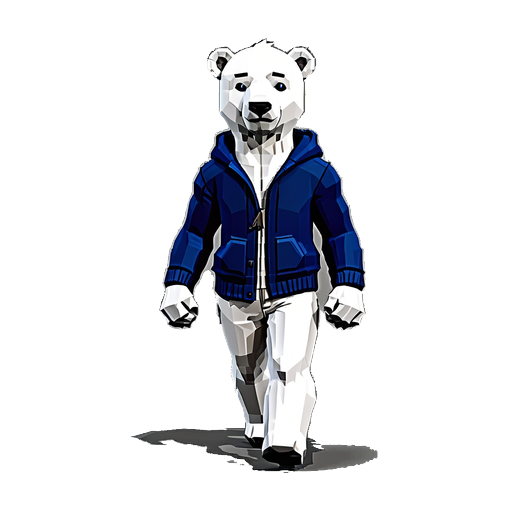
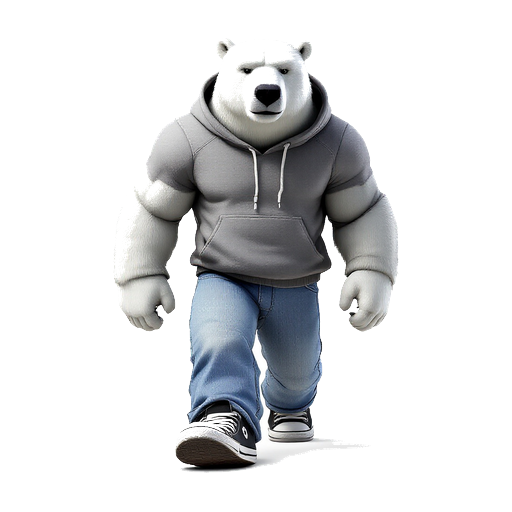
Add BFL FLUX API support and first smooth-3D front reference
- scripts/comfy_generate.py: BFL FLUX submit/poll/download integration
- public/bear-review.html: review page for remote asset review
- Latest front reference: smooth 3D polar bear with grey hoodie, blue jeans, Converse-style sneakers

Changed region(s): [[0.2188, 0.0625, 0.7812, 0.9375]]

diff --git a/scripts/comfy_generate.py b/scripts/comfy_generate.py
@@ -13,6 +13,7 @@ Usage:
 from __future__ import annotations
 
 import argparse
+import os
 import sys
 import time
 from collections import deque
@@ -27,6 +28,8 @@ from PIL import Image
 ROOT = Path(__file__).resolve().parents[1]
 OUT = ROOT / "public/assets"
 PREVIEW = OUT / "generated"
+
+BFL_BASE_URL = "https://api.bfl.ai"
 
 
 VOXEL_LORA = "VoxelXL_v1.safetensors"
@@ -319,6 +322,75 @@ def upload_image(server: str, path: Path) -> str:
     return data["name"]
 
 
+# ---------------------------------------------------------------------------
+# Black Forest Labs FLUX API helpers
+# ---------------------------------------------------------------------------
+
+def bfl_submit(api_key: str, prompt: str, width: int, height: int, seed: int,
+               model: str = "flux-pro-1.1", **extra: Any) -> tuple[str, str]:
+    """Submit a generation request to the BFL API and return (request_id, polling_url)."""
+    url = urljoin(BFL_BASE_URL, f"/v1/{model}")
+    payload: dict[str, Any] = {
+        "prompt": prompt,
+        "width": width,
+        "height": height,
+        "seed": seed,
+    }
+    payload.update(extra)
+    resp = requests.post(
+        url,
+        headers={"x-key": api_key, "Content-Type": "application/json"},
+        json=payload,
+        timeout=30,
+    )
+    resp.raise_for_status()
+    data = resp.json()
+    request_id = data.get("id") or data.get("request_id")
+    polling_url = data.get("polling_url")
+    if not request_id:
+        raise RuntimeError(f"BFL submit returned no request id: {data}")
+    print(f"  BFL {model} submitted: {request_id}")
+    return str(request_id), polling_url
+
+
+def bfl_poll_result(api_key: str, request_id: str,
+                    polling_url: str | None = None,
+                    timeout: float = 300.0) -> dict[str, Any]:
+    """Poll the BFL result endpoint until the image is ready."""
+    if polling_url is None:
+        polling_url = urljoin(BFL_BASE_URL, "/v1/get_result")
+    start = time.time()
+    while time.time() - start < timeout:
+        resp = requests.get(
+            polling_url,
+            headers={"x-key": api_key},
+            params={"id": request_id},
+            timeout=30,
+        )
+        resp.raise_for_status()
+        data = resp.json()
+        status = data.get("status", "")
+        if status == "Ready":
+            return data
+        if status in ("Failed", "Error"):
+            raise RuntimeError(f"BFL generation failed: {data}")
+        print(f"  BFL status: {status}, waiting...")
+        time.sleep(2.0)
+    raise RuntimeError(f"BFL generation did not complete within {timeout}s")
+
+
+def bfl_download_image(result: dict[str, Any], dest: Path) -> None:
+    """Download the generated image from the BFL result to dest."""
+    sample_url = result.get("result", {}).get("sample")
+    if not sample_url:
+        raise RuntimeError(f"BFL result has no sample URL: {result}")
+    resp = requests.get(sample_url, timeout=120)
+    resp.raise_for_status()
+    dest.parent.mkdir(parents=True, exist_ok=True)
+    dest.write_bytes(resp.content)
+    print(f"  downloaded {dest}")
+
+
 def isolate_largest_sprite(img: Image.Image, target_size: int, raw_path: Path | None = None) -> Image.Image:
     """Crop to the largest foreground region and make the background transparent.
 
@@ -428,9 +500,19 @@ def generate_single(server: str, key: str, seed: int, use_img2img: bool = False,
     return spec["out"]
 
 
-def make_bear_reference(server: str, seed: int, size: int = 512,
-                        direction: str = "down") -> Path:
-    """Generate a single consistent adult polar bear reference on white for a given direction."""
+def make_bear_reference(server: str | None, seed: int, size: int = 512,
+                        direction: str = "down",
+                        style_ref: Path | None = None,
+                        use_sd15: bool = False,
+                        bfl_api_key: str | None = None,
+                        bfl_model: str = "flux-pro-1.1") -> Path:
+    """Generate a single consistent adult polar bear reference on white for a given direction.
+
+    If bfl_api_key is provided, the Black Forest Labs FLUX API is used instead of ComfyUI.
+    If style_ref is provided, it is uploaded to ComfyUI and used as the img2img init image so the
+    generated frame inherits the reference's colors, outfit, proportions, and style.
+    If use_sd15 is True, the SD 1.5 checkpoint is used instead of CartoonXL SDXL.
+    """
     direction_prompts = {
         "up": "seen from behind, back view, walking away from camera, facing away",
         "right": "side view facing right, walking to the right, profile view",
@@ -438,27 +520,56 @@ def make_bear_reference(server: str, seed: int, size: int = 512,
         "left": "side view facing left, walking to the left, profile view",
     }
     prompt = (
-        "3D rendered anthropomorphic adult male polar bear character, voxel style, low poly, Fez-like, "
-        "realistic adult human proportions, seven heads tall, tall slender man-like body, "
-        "very long muscular humanoid legs, narrow waist, very broad shoulders, "
-        "small head relative to body, elongated mature snout, serious adult expression, "
+        "anthropomorphic adult male polar bear character, Minecraft voxel style, blocky, "
+        "muscular humanoid build, broad muscular shoulders, thick arms, strong stocky body, "
+        "wearing a solid grey hoodie with drawstrings and plain blue denim jeans with no rips, "
+        "white fur, black and white high-top sneakers like Converse, no gloves, bare paws, no headband, "
         f"{direction_prompts[direction]}, "
-        "wearing a solid blue hoodie with drawstrings and dark blue denim jeans, white fur, "
-        "no gloves, no headband, full length dark pants, "
-        "soft directional studio lighting, ambient occlusion, subtle cast shadow, "
         "pure white background, isolated character, centered, "
         "no text, no watermark, no border"
     )
-    out = PREVIEW / f"characters/bear-reference-{direction}.png"
     negative = (
         f"{NEGATIVE_SPRITE}, {NEGATIVE_OBJECT}, baby, cub, child, toddler, chibi, kawaii, "
         "cute, big eyes, large eyes, round face, big head, short legs, stubby legs, "
-        "3 heads tall, 4 heads tall, belly, overweight, chubby, "
-        "white pants, light pants, grey pants, bare legs, shorts, skirt, "
+        "belly, overweight, chubby, gloves, mittens, wrist cuffs, "
+        "barefoot, bare paws, no shoes, sandals, boots, high heels, "
+        "white hoodie, black hoodie, blue hoodie, pink hoodie, red hoodie, "
+        "ripped jeans, torn jeans, distressed jeans, shorts, skirt, bare chest, "
         "cartoon, anime, mascot, plushie, toy, figurine, Funko, collectable, "
-        "flat shading, 2d illustration, white hoodie, grey background, textured background, photograph"
+        "flat shading, 2d illustration, grey background, gradient background, textured background, photograph"
     )
-    workflow = base_workflow(1024, 1024, prompt, negative, seed, cfg=9.0, steps=40)
+    out = PREVIEW / f"characters/bear-reference-{direction}.png"
+
+    if bfl_api_key:
+        # BFL supports square generation well; use 1024x1024 for detail.
+        request_id, polling_url = bfl_submit(bfl_api_key, prompt, 1024, 1024, seed, model=bfl_model)
+        result = bfl_poll_result(bfl_api_key, request_id, polling_url=polling_url)
+        bfl_download_image(result, out)
+        with Image.open(out).convert("RGBA") as img:
+            isolate_largest_sprite(img, size, raw_path=out.with_suffix(".raw.png")).save(out)
+        return out
+
+    if server is None:
+        raise ValueError("No ComfyUI server provided and no BFL API key set")
+
+    if use_sd15:
+        checkpoint = "v1-5-pruned-emaonly.safetensors"
+        width, height, gen_steps, gen_cfg = 512, 512, 35, 7.5
+    else:
+        checkpoint = "cartoonxl_v10.safetensors"
+        width, height, gen_steps, gen_cfg = 1024, 1024, 40, 9.0
+
+    if style_ref is not None and style_ref.exists():
+        uploaded_name = upload_image(server, style_ref)
+        # Low denoise preserves the reference style/outfit; prompt steers direction.
+        workflow = img2img_workflow(
+            width, height, prompt, negative, seed, Path(uploaded_name),
+            denoise=0.35, checkpoint=checkpoint, steps=gen_steps, cfg=gen_cfg, lora_name=None,
+        )
+    else:
+        workflow = base_workflow(width, height, prompt, negative, seed,
+                                 checkpoint=checkpoint, steps=gen_steps, cfg=gen_cfg, lora_name=None)
+
     prompt_id = submit(server, workflow)
     print(f"[bear-reference-{direction}] queued {prompt_id}")
     entry = poll_until_done(server, prompt_id)
@@ -470,7 +581,7 @@ def make_bear_reference(server: str, seed: int, size: int = 512,
 
 
 def make_bear_direction(server: str, direction: str, reference: Path, seed: int,
-                        pose: str = "") -> Path:
+                        pose: str = "", use_sd15: bool = False) -> Path:
     """Generate one direction frame using img2img from the reference for consistency."""
     directions = {
         "up": "seen from behind, walking away, back view, facing away, upright humanoid posture",
@@ -479,28 +590,38 @@ def make_bear_direction(server: str, direction: str, reference: Path, seed: int,
         "down": "front view walking toward viewer, facing camera, upright humanoid posture",
     }
     prompt = (
-        "3D rendered anthropomorphic adult male polar bear character, same voxel design and outfit as reference, "
-        "realistic adult human proportions, seven heads tall, tall slender man-like body, "
-        "very long muscular humanoid legs, narrow waist, very broad shoulders, "
-        "small head relative to body, elongated mature snout, serious adult expression, "
-        "wearing a solid blue hoodie with drawstrings and dark blue denim jeans, white fur, "
+        "anthropomorphic adult male polar bear character, same Minecraft voxel design and outfit as reference, "
+        "muscular humanoid build, broad muscular shoulders, thick arms, strong stocky body, "
+        "wearing a solid grey hoodie with drawstrings and plain blue denim jeans with no rips, "
+        "white fur, black and white high-top sneakers like Converse, no gloves, bare paws, no headband, "
         f"{directions[direction]}, {pose}, "
-        "soft directional studio lighting, ambient occlusion, subtle cast shadow, "
         "pure white background, isolated character, centered, "
         "no text, no watermark, no border"
     )
     negative = (
         f"{NEGATIVE_SPRITE}, {NEGATIVE_OBJECT}, baby, cub, child, toddler, chibi, kawaii, "
         "cute, big eyes, large eyes, round face, big head, short legs, stubby legs, "
-        "3 heads tall, 4 heads tall, belly, overweight, chubby, "
+        "belly, overweight, chubby, gloves, mittens, wrist cuffs, "
+        "barefoot, bare paws, no shoes, sandals, boots, high heels, "
+        "white hoodie, black hoodie, blue hoodie, pink hoodie, red hoodie, "
+        "ripped jeans, torn jeans, distressed jeans, shorts, skirt, bare chest, "
         "cartoon, anime, mascot, plushie, toy, figurine, Funko, collectable, "
-        "flat shading, 2d illustration, white hoodie, grey background, textured background, photograph"
+        "flat shading, 2d illustration, grey background, gradient background, textured background, photograph"
     )
     out = PREVIEW / f"characters/bear-{direction}-{seed}.png"
-    # Upload the reference to ComfyUI's input folder so img2img can load it.
+
     uploaded_name = upload_image(server, reference)
-    # Use Voxel LoRA for consistent style; moderate denoise keeps reference while allowing pose change.
-    workflow = img2img_workflow(1024, 1024, prompt, negative, seed, Path(uploaded_name), denoise=0.55)
+
+    if use_sd15:
+        # SD 1.5 works at 512x512 with the uploaded reference, low denoise keeps the style/outfit.
+        workflow = img2img_workflow(
+            512, 512, prompt, negative, seed, Path(uploaded_name),
+            denoise=0.45, checkpoint="v1-5-pruned-emaonly.safetensors",
+            steps=30, cfg=7.5, lora_name=None,
+        )
+    else:
+        workflow = img2img_workflow(1024, 1024, prompt, negative, seed, Path(uploaded_name), denoise=0.55)
+
     prompt_id = submit(server, workflow)
     print(f"[bear-{direction}-{seed}] queued {prompt_id}")
     entry = poll_until_done(server, prompt_id)
@@ -554,11 +675,21 @@ def assemble_bear_sheet(directions: dict[str, list[Path]]) -> Path:
     return out
 
 
-def make_bear_reference_preview(server: str, seed: int) -> Path:
+def make_bear_reference_preview(server: str, seed: int,
+                                style_ref: Path | None = None,
+                                use_sd15: bool = False) -> Path:
     """Generate a front-facing reference and build a preview sheet that repeats it."""
-    ref = make_bear_reference(server, seed)
+    ref = make_bear_reference(server, seed, direction="down", style_ref=style_ref, use_sd15=use_sd15)
+    return _make_preview_sheet_from_ref(ref)
 
-    # Build a 128x128 cell from the 512x512 reference.
+
+def make_bear_reference_preview_with_ref(ref: Path) -> Path:
+    """Build a preview sheet from an already-generated reference file."""
+    return _make_preview_sheet_from_ref(ref)
+
+
+def _make_preview_sheet_from_ref(ref: Path) -> Path:
+    """Tile a 512x512 reference into a 4x8 preview sheet."""
     with Image.open(ref).convert("RGBA") as img:
         cell = 128
         scale = cell / max(img.size)
@@ -656,6 +787,11 @@ def main() -> None:
     parser.add_argument("--promote", action="store_true", help="Copy previews to active asset folders")
     parser.add_argument("--no-lora", action="store_true", help="Use CartoonXL without the Voxel XL LoRA (not voxel style)")
     parser.add_argument("--lora-weight", type=float, default=None, help="Override Voxel XL LoRA strength (default 0.6)")
+    parser.add_argument("--sd15", action="store_true", help="Use the SD 1.5 checkpoint instead of CartoonXL SDXL for bear generation")
+    parser.add_argument("--style-ref", type=Path, default=None, help="Image to use as an img2img style/outfit reference for bear generation")
+    parser.add_argument("--bfl", action="store_true", help="Use the Black Forest Labs FLUX API instead of ComfyUI")
+    parser.add_argument("--bfl-model", default="flux-pro-1.1", help="BFL model to use (default: flux-pro-1.1)")
+    parser.add_argument("--bfl-api-key", default=None, help="BFL API key (defaults to BFL_API_KEY env var)")
     args = parser.parse_args()
 
     if args.no_lora:
@@ -669,40 +805,53 @@ def main() -> None:
         promote()
         return
 
-    if not args.no_lora:
-        require_lora(args.server)
+    bfl_api_key = args.bfl_api_key or os.environ.get("BFL_API_KEY")
 
-    jobs: list[str] = []
-    if args.preview_all:
-        jobs.extend(ASSETS.keys())
-    elif args.preview:
-        jobs.append(args.preview)
+    if not args.bfl:
+        if not args.no_lora:
+            require_lora(args.server)
 
-    for key in jobs:
-        try:
-            generate_single(args.server, key, args.seed)
-        except Exception as exc:
-            print(f"[{key}] failed: {exc}", file=sys.stderr)
-            sys.exit(1)
+        jobs: list[str] = []
+        if args.preview_all:
+            jobs.extend(ASSETS.keys())
+        elif args.preview:
+            jobs.append(args.preview)
+
+        for key in jobs:
+            try:
+                generate_single(args.server, key, args.seed)
+            except Exception as exc:
+                print(f"[{key}] failed: {exc}", file=sys.stderr)
+                sys.exit(1)
 
     if args.preview_bear:
+        if args.bfl and not bfl_api_key:
+            print("ERROR: --bfl requires --bfl-api-key or BFL_API_KEY env var", file=sys.stderr)
+            sys.exit(1)
         try:
+            server = None if args.bfl else args.server
             # Generate a direction-specific reference for each cardinal direction so the
             # silhouettes actually read as up/right/down/left in the final sheet.
             refs: dict[str, Path] = {}
             for d in ["up", "right", "down", "left"]:
-                refs[d] = make_bear_reference(args.server, args.seed, direction=d)
+                refs[d] = make_bear_reference(
+                    server, args.seed, direction=d,
+                    style_ref=args.style_ref, use_sd15=args.sd15,
+                    bfl_api_key=bfl_api_key, bfl_model=args.bfl_model,
+                )
 
             directions: dict[str, list[Path]] = {}
             for d in ["up", "right", "down", "left"]:
                 # Two alternating walk poses per direction, guided by the matching direction reference.
                 pose_a = make_bear_direction(
                     args.server, d, refs[d], args.seed + hash(d) % 100000,
-                    pose="left leg forward, right leg back, left arm back, right arm forward"
+                    pose="left leg forward, right leg back, left arm back, right arm forward",
+                    use_sd15=args.sd15,
                 )
                 pose_b = make_bear_direction(
                     args.server, d, refs[d], args.seed + hash(d) % 100000 + 50000,
-                    pose="right leg forward, left leg back, right arm back, left arm forward"
+                    pose="right leg forward, left leg back, right arm back, left arm forward",
+                    use_sd15=args.sd15,
                 )
                 directions[d] = [pose_a, pose_b]
             assemble_bear_sheet(directions)
@@ -711,8 +860,17 @@ def main() -> None:
             sys.exit(1)
 
     if args.preview_bear_ref:
+        if args.bfl and not bfl_api_key:
+            print("ERROR: --bfl requires --bfl-api-key or BFL_API_KEY env var", file=sys.stderr)
+            sys.exit(1)
         try:
-            make_bear_reference_preview(args.server, args.seed)
+            server = None if args.bfl else args.server
+            ref = make_bear_reference(
+                server, args.seed, direction="down",
+                style_ref=args.style_ref, use_sd15=args.sd15,
+                bfl_api_key=bfl_api_key, bfl_model=args.bfl_model,
+            )
+            make_bear_reference_preview_with_ref(ref)
         except Exception as exc:
             print(f"[bear-reference-preview] failed: {exc}", file=sys.stderr)
             sys.exit(1)
